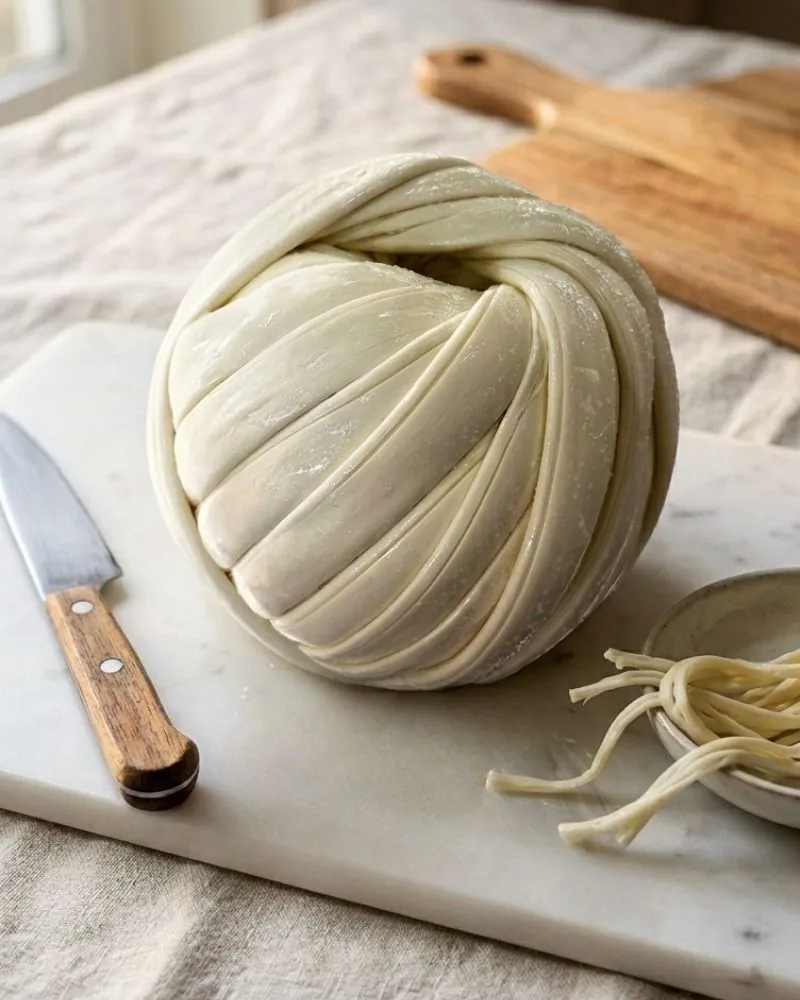
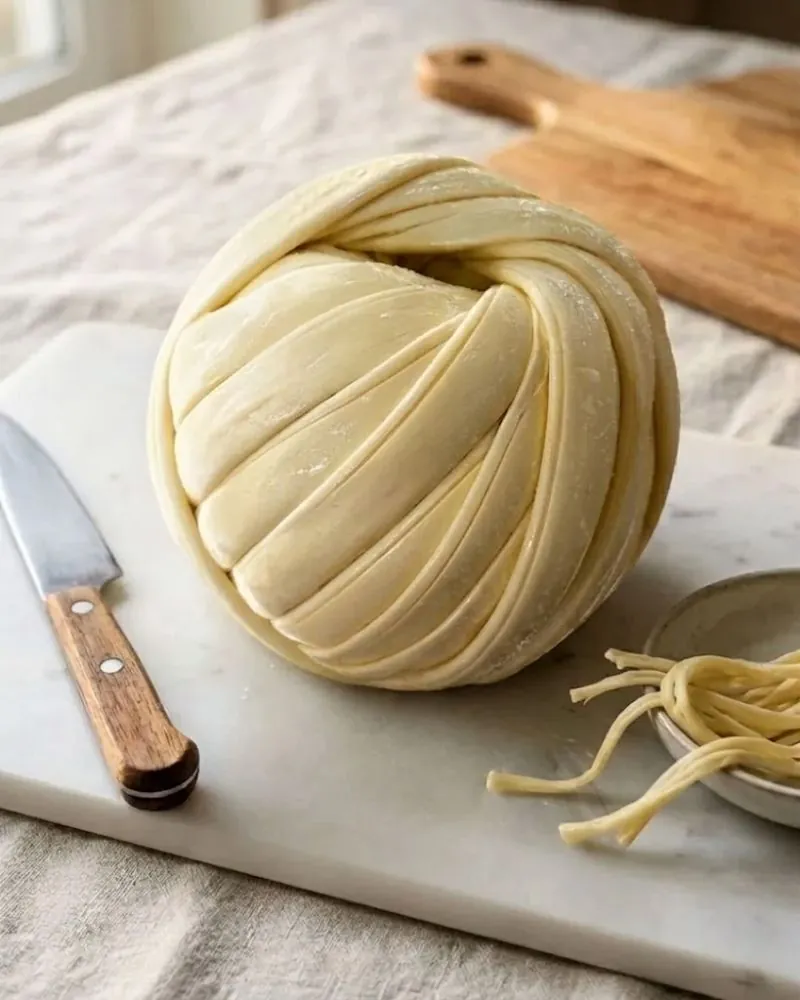
Reemplazar imagenes de Quesillo de Crema y Quesillo Descremado por nuevas fotos (800x1000 WebP) con cache-buster en todas las paginas

diff --git a/productos/quesillo-descremado/index.html b/productos/quesillo-descremado/index.html
@@ -70,7 +70,7 @@
 
         <div class="ficha-producto-grid">
           <div class="ficha-producto-img">
-            <img src="../../img/quesillo-descremado-artesanal.webp" alt="Quesillo Descremado oaxaqueño en bola al mayoreo para cremerías" width="600" height="600" loading="lazy" decoding="async">
+            <img src="../../img/quesillo-descremado-artesanal.webp?v=20260422" alt="Quesillo Descremado oaxaqueño en bola al mayoreo para cremerías" width="600" height="600" loading="lazy" decoding="async">
           </div>
           <div class="ficha-tecnica">
             <h3>Ficha técnica</h3>
@@ -114,7 +114,7 @@
     <div class="container">
       <div class="section-title" data-reveal><span class="eyebrow">Productos relacionados</span><h2>Otros productos del catálogo</h2></div>
       <div class="productos-grid">
-        <article class="producto-card" data-reveal><img src="../../img/quesillo-de-crema-mayoreo-chiapas.webp" alt="Quesillo de crema tradicional oaxaqueño para mayoreo en Chiapas" class="producto-img" width="600" height="400" loading="lazy" decoding="async"><div class="producto-info"><h3>Quesillo de Crema</h3><p>Nuestro producto estrella, versión tradicional.</p><a href="/productos/quesillo-de-crema/" class="producto-link">Ver detalles <svg viewBox="0 0 24 24" width="16" height="16" fill="none" stroke="currentColor" stroke-width="2"><path d="M5 12h14M13 5l7 7-7 7"/></svg></a></div></article>
+        <article class="producto-card" data-reveal><img src="../../img/quesillo-de-crema-mayoreo-chiapas.webp?v=20260422" alt="Quesillo de crema tradicional oaxaqueño para mayoreo en Chiapas" class="producto-img" width="600" height="400" loading="lazy" decoding="async"><div class="producto-info"><h3>Quesillo de Crema</h3><p>Nuestro producto estrella, versión tradicional.</p><a href="/productos/quesillo-de-crema/" class="producto-link">Ver detalles <svg viewBox="0 0 24 24" width="16" height="16" fill="none" stroke="currentColor" stroke-width="2"><path d="M5 12h14M13 5l7 7-7 7"/></svg></a></div></article>
         <article class="producto-card" data-reveal><img src="../../img/queso-pvc-fresco-oaxaqueno.webp" alt="Queso tipo PVC fresco elaborado con receta tradicional oaxaqueña al mayoreo" class="producto-img" width="600" height="400" loading="lazy" decoding="async"><div class="producto-info"><h3>Queso PVC</h3><p>Queso fresco moldeado en aro PVC.</p><a href="/productos/queso-pvc/" class="producto-link">Ver detalles <svg viewBox="0 0 24 24" width="16" height="16" fill="none" stroke="currentColor" stroke-width="2"><path d="M5 12h14M13 5l7 7-7 7"/></svg></a></div></article>
         <article class="producto-card" data-reveal><img src="../../img/requeson-fresco-cremerias-chiapas.webp" alt="Requesón fresco artesanal para abarrotes y cremerías en Chiapas" class="producto-img" width="600" height="400" loading="lazy" decoding="async"><div class="producto-info"><h3>Requesón</h3><p>Bolsa de 25 kg, textura suave.</p><a href="/productos/requeson/" class="producto-link">Ver detalles <svg viewBox="0 0 24 24" width="16" height="16" fill="none" stroke="currentColor" stroke-width="2"><path d="M5 12h14M13 5l7 7-7 7"/></svg></a></div></article>
       </div>

diff --git a/productos/queso-pvc/index.html b/productos/queso-pvc/index.html
@@ -115,7 +115,7 @@
       <div class="section-title" data-reveal><span class="eyebrow">Productos relacionados</span><h2>Otros productos del catálogo</h2></div>
       <div class="productos-grid">
         <article class="producto-card" data-reveal><img src="../../img/queso-de-tela-artesanal-mayoreo-oaxaca.webp" alt="Queso de tela tradicional moldeado en tela artesanal venta al mayoreo" class="producto-img" width="600" height="400" loading="lazy" decoding="async"><div class="producto-info"><h3>Queso de Tela</h3><p>Moldeado en tela tradicional.</p><a href="/productos/queso-de-tela/" class="producto-link">Ver detalles <svg viewBox="0 0 24 24" width="16" height="16" fill="none" stroke="currentColor" stroke-width="2"><path d="M5 12h14M13 5l7 7-7 7"/></svg></a></div></article>
-        <article class="producto-card" data-reveal><img src="../../img/quesillo-de-crema-mayoreo-chiapas.webp" alt="Quesillo de crema tradicional oaxaqueño para mayoreo en Chiapas" class="producto-img" width="600" height="400" loading="lazy" decoding="async"><div class="producto-info"><h3>Quesillo de Crema</h3><p>Nuestro producto estrella en bola de 6 kg.</p><a href="/productos/quesillo-de-crema/" class="producto-link">Ver detalles <svg viewBox="0 0 24 24" width="16" height="16" fill="none" stroke="currentColor" stroke-width="2"><path d="M5 12h14M13 5l7 7-7 7"/></svg></a></div></article>
+        <article class="producto-card" data-reveal><img src="../../img/quesillo-de-crema-mayoreo-chiapas.webp?v=20260422" alt="Quesillo de crema tradicional oaxaqueño para mayoreo en Chiapas" class="producto-img" width="600" height="400" loading="lazy" decoding="async"><div class="producto-info"><h3>Quesillo de Crema</h3><p>Nuestro producto estrella en bola de 6 kg.</p><a href="/productos/quesillo-de-crema/" class="producto-link">Ver detalles <svg viewBox="0 0 24 24" width="16" height="16" fill="none" stroke="currentColor" stroke-width="2"><path d="M5 12h14M13 5l7 7-7 7"/></svg></a></div></article>
         <article class="producto-card" data-reveal><img src="../../img/requeson-fresco-cremerias-chiapas.webp" alt="Requesón fresco artesanal para abarrotes y cremerías en Chiapas" class="producto-img" width="600" height="400" loading="lazy" decoding="async"><div class="producto-info"><h3>Requesón</h3><p>Bolsa de 25 kg, textura suave.</p><a href="/productos/requeson/" class="producto-link">Ver detalles <svg viewBox="0 0 24 24" width="16" height="16" fill="none" stroke="currentColor" stroke-width="2"><path d="M5 12h14M13 5l7 7-7 7"/></svg></a></div></article>
       </div>
     </div>

diff --git a/productos/requeson/index.html b/productos/requeson/index.html
@@ -113,7 +113,7 @@
     <div class="container">
       <div class="section-title" data-reveal><span class="eyebrow">Productos relacionados</span><h2>Otros productos del catálogo</h2></div>
       <div class="productos-grid">
-        <article class="producto-card" data-reveal><img src="../../img/quesillo-de-crema-mayoreo-chiapas.webp" alt="Quesillo de crema tradicional oaxaqueño para mayoreo en Chiapas" class="producto-img" width="600" height="400" loading="lazy" decoding="async"><div class="producto-info"><h3>Quesillo de Crema</h3><p>Nuestro producto estrella.</p><a href="/productos/quesillo-de-crema/" class="producto-link">Ver detalles <svg viewBox="0 0 24 24" width="16" height="16" fill="none" stroke="currentColor" stroke-width="2"><path d="M5 12h14M13 5l7 7-7 7"/></svg></a></div></article>
+        <article class="producto-card" data-reveal><img src="../../img/quesillo-de-crema-mayoreo-chiapas.webp?v=20260422" alt="Quesillo de crema tradicional oaxaqueño para mayoreo en Chiapas" class="producto-img" width="600" height="400" loading="lazy" decoding="async"><div class="producto-info"><h3>Quesillo de Crema</h3><p>Nuestro producto estrella.</p><a href="/productos/quesillo-de-crema/" class="producto-link">Ver detalles <svg viewBox="0 0 24 24" width="16" height="16" fill="none" stroke="currentColor" stroke-width="2"><path d="M5 12h14M13 5l7 7-7 7"/></svg></a></div></article>
         <article class="producto-card" data-reveal><img src="../../img/crema-natural-artesanal-mayoreo.webp" alt="Crema láctea natural artesanal venta exclusiva por mayoreo" class="producto-img" width="600" height="400" loading="lazy" decoding="async"><div class="producto-info"><h3>Crema</h3><p>Complemento clásico para cremerías.</p><a href="/productos/crema/" class="producto-link">Ver detalles <svg viewBox="0 0 24 24" width="16" height="16" fill="none" stroke="currentColor" stroke-width="2"><path d="M5 12h14M13 5l7 7-7 7"/></svg></a></div></article>
         <article class="producto-card" data-reveal><img src="../../img/mantequilla-artesanal-tradicional-sureste.webp" alt="Mantequilla artesanal tradicional oaxaqueña para cremerías" class="producto-img" width="600" height="400" loading="lazy" decoding="async"><div class="producto-info"><h3>Mantequilla</h3><p>Mantequilla artesanal.</p><a href="/productos/mantequilla/" class="producto-link">Ver detalles <svg viewBox="0 0 24 24" width="16" height="16" fill="none" stroke="currentColor" stroke-width="2"><path d="M5 12h14M13 5l7 7-7 7"/></svg></a></div></article>
       </div>

diff --git a/productos/crema/index.html b/productos/crema/index.html
@@ -122,7 +122,7 @@
     <div class="container">
       <div class="section-title" data-reveal><span class="eyebrow">Productos relacionados</span><h2>Otros productos del catálogo</h2></div>
       <div class="productos-grid">
-        <article class="producto-card" data-reveal><img src="../../img/quesillo-de-crema-mayoreo-chiapas.webp" alt="Quesillo de crema tradicional oaxaqueño para mayoreo en Chiapas" class="producto-img" width="600" height="400" loading="lazy" decoding="async"><div class="producto-info"><h3>Quesillo de Crema</h3><p>Nuestro producto estrella.</p><a href="/productos/quesillo-de-crema/" class="producto-link">Ver detalles <svg viewBox="0 0 24 24" width="16" height="16" fill="none" stroke="currentColor" stroke-width="2"><path d="M5 12h14M13 5l7 7-7 7"/></svg></a></div></article>
+        <article class="producto-card" data-reveal><img src="../../img/quesillo-de-crema-mayoreo-chiapas.webp?v=20260422" alt="Quesillo de crema tradicional oaxaqueño para mayoreo en Chiapas" class="producto-img" width="600" height="400" loading="lazy" decoding="async"><div class="producto-info"><h3>Quesillo de Crema</h3><p>Nuestro producto estrella.</p><a href="/productos/quesillo-de-crema/" class="producto-link">Ver detalles <svg viewBox="0 0 24 24" width="16" height="16" fill="none" stroke="currentColor" stroke-width="2"><path d="M5 12h14M13 5l7 7-7 7"/></svg></a></div></article>
         <article class="producto-card" data-reveal><img src="../../img/requeson-fresco-cremerias-chiapas.webp" alt="Requesón fresco artesanal para abarrotes y cremerías en Chiapas" class="producto-img" width="600" height="400" loading="lazy" decoding="async"><div class="producto-info"><h3>Requesón</h3><p>Bolsa de 25 kg.</p><a href="/productos/requeson/" class="producto-link">Ver detalles <svg viewBox="0 0 24 24" width="16" height="16" fill="none" stroke="currentColor" stroke-width="2"><path d="M5 12h14M13 5l7 7-7 7"/></svg></a></div></article>
         <article class="producto-card" data-reveal><img src="../../img/mantequilla-artesanal-tradicional-sureste.webp" alt="Mantequilla artesanal tradicional oaxaqueña para cremerías" class="producto-img" width="600" height="400" loading="lazy" decoding="async"><div class="producto-info"><h3>Mantequilla</h3><p>Mantequilla artesanal.</p><a href="/productos/mantequilla/" class="producto-link">Ver detalles <svg viewBox="0 0 24 24" width="16" height="16" fill="none" stroke="currentColor" stroke-width="2"><path d="M5 12h14M13 5l7 7-7 7"/></svg></a></div></article>
       </div>

diff --git a/productos/queso-de-tela/index.html b/productos/queso-de-tela/index.html
@@ -115,7 +115,7 @@
       <div class="section-title" data-reveal><span class="eyebrow">Productos relacionados</span><h2>Otros productos del catálogo</h2></div>
       <div class="productos-grid">
         <article class="producto-card" data-reveal><img src="../../img/queso-pvc-fresco-oaxaqueno.webp" alt="Queso tipo PVC fresco elaborado con receta tradicional oaxaqueña al mayoreo" class="producto-img" width="600" height="400" loading="lazy" decoding="async"><div class="producto-info"><h3>Queso PVC</h3><p>Mismo proceso, moldeado en aro PVC.</p><a href="/productos/queso-pvc/" class="producto-link">Ver detalles <svg viewBox="0 0 24 24" width="16" height="16" fill="none" stroke="currentColor" stroke-width="2"><path d="M5 12h14M13 5l7 7-7 7"/></svg></a></div></article>
-        <article class="producto-card" data-reveal><img src="../../img/quesillo-de-crema-mayoreo-chiapas.webp" alt="Quesillo de crema tradicional oaxaqueño para mayoreo en Chiapas" class="producto-img" width="600" height="400" loading="lazy" decoding="async"><div class="producto-info"><h3>Quesillo de Crema</h3><p>Nuestro producto estrella.</p><a href="/productos/quesillo-de-crema/" class="producto-link">Ver detalles <svg viewBox="0 0 24 24" width="16" height="16" fill="none" stroke="currentColor" stroke-width="2"><path d="M5 12h14M13 5l7 7-7 7"/></svg></a></div></article>
+        <article class="producto-card" data-reveal><img src="../../img/quesillo-de-crema-mayoreo-chiapas.webp?v=20260422" alt="Quesillo de crema tradicional oaxaqueño para mayoreo en Chiapas" class="producto-img" width="600" height="400" loading="lazy" decoding="async"><div class="producto-info"><h3>Quesillo de Crema</h3><p>Nuestro producto estrella.</p><a href="/productos/quesillo-de-crema/" class="producto-link">Ver detalles <svg viewBox="0 0 24 24" width="16" height="16" fill="none" stroke="currentColor" stroke-width="2"><path d="M5 12h14M13 5l7 7-7 7"/></svg></a></div></article>
         <article class="producto-card" data-reveal><img src="../../img/crema-natural-artesanal-mayoreo.webp" alt="Crema láctea natural artesanal venta exclusiva por mayoreo" class="producto-img" width="600" height="400" loading="lazy" decoding="async"><div class="producto-info"><h3>Crema</h3><p>Complemento clásico para cremerías.</p><a href="/productos/crema/" class="producto-link">Ver detalles <svg viewBox="0 0 24 24" width="16" height="16" fill="none" stroke="currentColor" stroke-width="2"><path d="M5 12h14M13 5l7 7-7 7"/></svg></a></div></article>
       </div>
     </div>

diff --git a/productos/mantequilla/index.html b/productos/mantequilla/index.html
@@ -124,7 +124,7 @@
       <div class="productos-grid">
         <article class="producto-card" data-reveal><img src="../../img/crema-natural-artesanal-mayoreo.webp" alt="Crema láctea natural artesanal venta exclusiva por mayoreo" class="producto-img" width="600" height="400" loading="lazy" decoding="async"><div class="producto-info"><h3>Crema</h3><p>Complemento clásico para cremerías.</p><a href="/productos/crema/" class="producto-link">Ver detalles <svg viewBox="0 0 24 24" width="16" height="16" fill="none" stroke="currentColor" stroke-width="2"><path d="M5 12h14M13 5l7 7-7 7"/></svg></a></div></article>
         <article class="producto-card" data-reveal><img src="../../img/requeson-fresco-cremerias-chiapas.webp" alt="Requesón fresco artesanal para abarrotes y cremerías en Chiapas" class="producto-img" width="600" height="400" loading="lazy" decoding="async"><div class="producto-info"><h3>Requesón</h3><p>Bolsa de 25 kg, textura suave.</p><a href="/productos/requeson/" class="producto-link">Ver detalles <svg viewBox="0 0 24 24" width="16" height="16" fill="none" stroke="currentColor" stroke-width="2"><path d="M5 12h14M13 5l7 7-7 7"/></svg></a></div></article>
-        <article class="producto-card" data-reveal><img src="../../img/quesillo-de-crema-mayoreo-chiapas.webp" alt="Quesillo de crema tradicional oaxaqueño para mayoreo en Chiapas" class="producto-img" width="600" height="400" loading="lazy" decoding="async"><div class="producto-info"><h3>Quesillo de Crema</h3><p>Nuestro producto estrella.</p><a href="/productos/quesillo-de-crema/" class="producto-link">Ver detalles <svg viewBox="0 0 24 24" width="16" height="16" fill="none" stroke="currentColor" stroke-width="2"><path d="M5 12h14M13 5l7 7-7 7"/></svg></a></div></article>
+        <article class="producto-card" data-reveal><img src="../../img/quesillo-de-crema-mayoreo-chiapas.webp?v=20260422" alt="Quesillo de crema tradicional oaxaqueño para mayoreo en Chiapas" class="producto-img" width="600" height="400" loading="lazy" decoding="async"><div class="producto-info"><h3>Quesillo de Crema</h3><p>Nuestro producto estrella.</p><a href="/productos/quesillo-de-crema/" class="producto-link">Ver detalles <svg viewBox="0 0 24 24" width="16" height="16" fill="none" stroke="currentColor" stroke-width="2"><path d="M5 12h14M13 5l7 7-7 7"/></svg></a></div></article>
       </div>
     </div>
   </section>

diff --git a/productos/index.html b/productos/index.html
@@ -90,7 +90,7 @@
       <div class="productos-grid">
 
         <article class="producto-card" data-reveal>
-          <img src="../img/quesillo-de-crema-mayoreo-chiapas.webp" alt="Quesillo de crema tradicional oaxaqueño para mayoreo en Chiapas" class="producto-img" width="600" height="400" loading="lazy" decoding="async">
+          <img src="../img/quesillo-de-crema-mayoreo-chiapas.webp?v=20260422" alt="Quesillo de crema tradicional oaxaqueño para mayoreo en Chiapas" class="producto-img" width="600" height="400" loading="lazy" decoding="async">
           <div class="producto-info">
             <h3>Quesillo de Crema</h3>
             <p>Pieza en bola de 6 kg. Pedido mínimo 1 caja (6 piezas = 36 kg). Nuestro producto estrella.</p>
@@ -101,7 +101,7 @@
         </article>
 
         <article class="producto-card" data-reveal>
-          <img src="../img/quesillo-descremado-artesanal.webp" alt="Quesillo descremado artesanal de Oaxaca para cremerías y mayoreo" class="producto-img" width="600" height="400" loading="lazy" decoding="async">
+          <img src="../img/quesillo-descremado-artesanal.webp?v=20260422" alt="Quesillo descremado artesanal de Oaxaca para cremerías y mayoreo" class="producto-img" width="600" height="400" loading="lazy" decoding="async">
           <div class="producto-info">
             <h3>Quesillo Descremado</h3>
             <p>Alternativa más ligera del quesillo tradicional. Pieza en bola de 6 kg, caja de 36 kg.</p>

diff --git a/index.html b/index.html
@@ -115,7 +115,7 @@
       <div class="productos-grid">
 
         <article class="producto-card" data-reveal>
-          <img src="img/quesillo-de-crema-mayoreo-chiapas.webp" alt="Quesillo de crema tradicional oaxaqueño para mayoreo en Chiapas" class="producto-img" width="600" height="400" loading="lazy" decoding="async">
+          <img src="img/quesillo-de-crema-mayoreo-chiapas.webp?v=20260422" alt="Quesillo de crema tradicional oaxaqueño para mayoreo en Chiapas" class="producto-img" width="600" height="400" loading="lazy" decoding="async">
           <div class="producto-info">
             <h3>Quesillo de Crema</h3>
             <p>Pieza en bola de 6 kg. Pedido mínimo 1 caja (6 piezas = 36 kg). El más pedido por cremerías.</p>
@@ -126,7 +126,7 @@
         </article>
 
         <article class="producto-card" data-reveal>
-          <img src="img/quesillo-descremado-artesanal.webp" alt="Quesillo descremado artesanal de Oaxaca para cremerías y mayoreo" class="producto-img" width="600" height="400" loading="lazy" decoding="async">
+          <img src="img/quesillo-descremado-artesanal.webp?v=20260422" alt="Quesillo descremado artesanal de Oaxaca para cremerías y mayoreo" class="producto-img" width="600" height="400" loading="lazy" decoding="async">
           <div class="producto-info">
             <h3>Quesillo Descremado</h3>
             <p>Versión más ligera del quesillo tradicional. Misma presentación en bola y caja de 36 kg.</p>

diff --git a/productos/quesillo-de-crema/index.html b/productos/quesillo-de-crema/index.html
@@ -82,7 +82,7 @@
             </ul>
           </div>
           <div class="ficha-producto-img">
-            <img src="../../img/quesillo-de-crema-mayoreo-chiapas.webp" alt="Bola de Quesillo de Crema oaxaqueño de 6 kg al mayoreo en Chiapas" width="600" height="600" loading="lazy" decoding="async">
+            <img src="../../img/quesillo-de-crema-mayoreo-chiapas.webp?v=20260422" alt="Bola de Quesillo de Crema oaxaqueño de 6 kg al mayoreo en Chiapas" width="600" height="600" loading="lazy" decoding="async">
           </div>
         </div>
 
@@ -144,7 +144,7 @@
       </div>
       <div class="productos-grid">
         <article class="producto-card" data-reveal>
-          <img src="../../img/quesillo-descremado-artesanal.webp" alt="Quesillo descremado artesanal de Oaxaca para cremerías y mayoreo" class="producto-img" width="600" height="400" loading="lazy" decoding="async">
+          <img src="../../img/quesillo-descremado-artesanal.webp?v=20260422" alt="Quesillo descremado artesanal de Oaxaca para cremerías y mayoreo" class="producto-img" width="600" height="400" loading="lazy" decoding="async">
           <div class="producto-info">
             <h3>Quesillo Descremado</h3>
             <p>Alternativa más ligera del quesillo tradicional.</p>
